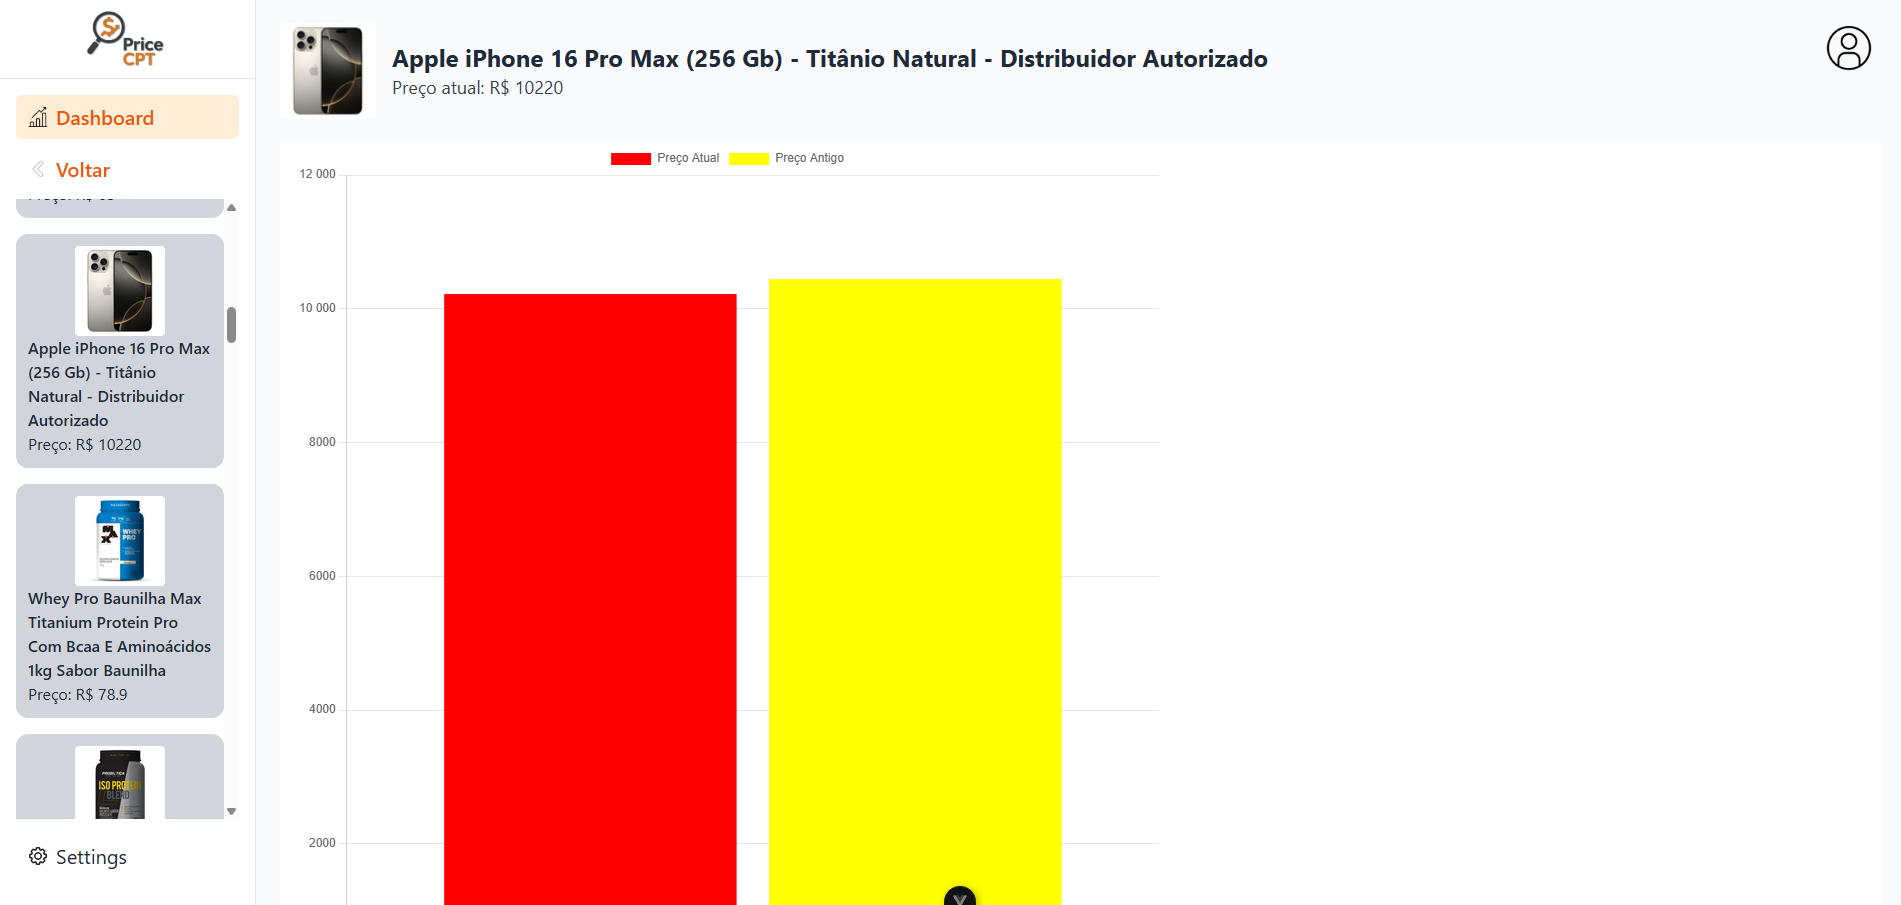
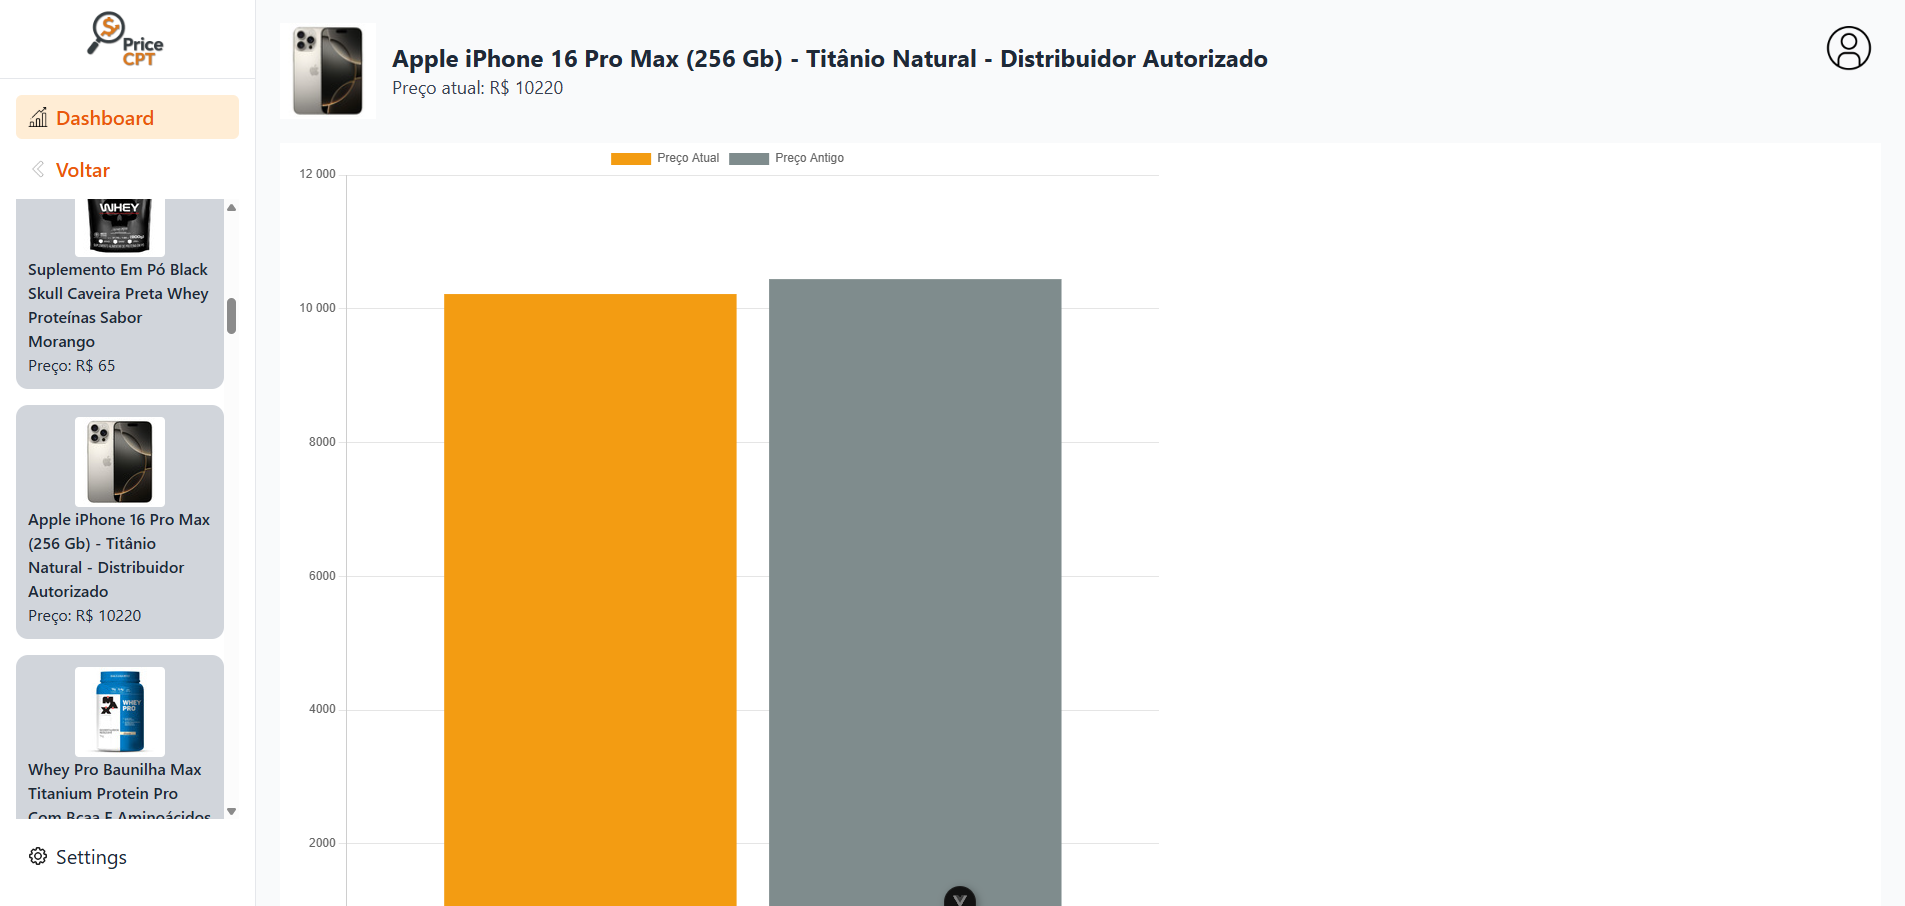
Alterando o README

diff --git a/src/components/produtoGraficoComponent.vue b/src/components/produtoGraficoComponent.vue
@@ -62,12 +62,12 @@ function desenharGrafico() {
         {
           label: 'Preço Atual',
           data: precoAtual,
-          backgroundColor: 'red'
+          backgroundColor: '#F39C12'
         },
         {
           label: 'Preço Antigo',
           data: precosAntigos,
-          backgroundColor: 'yellow'
+          backgroundColor: '#7F8C8D'
         }
       ]
     },
